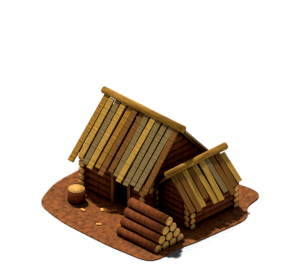
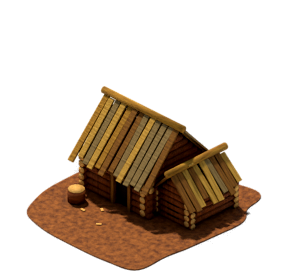
Settlers 4 construction: diggers clear every site, staged buildings, real goods piles, placement hints
Sim: every site except mines is cleared by a digger first (clearStrokes
per footprint tile, after levelling a sloped one); carriers bring the
materials meanwhile and builders start on cleared sites. Players start
with two diggers; carriers become extra diggers only for sloped sites,
so clearing does not eat the foresters' shovels. SAVE_VERSION 15.

Render: while a building is chosen, dots mark every spot in view where
it fits (green level, yellow needs a digger). The door flag goes up only
once a building is in use. With ?art=3d the woodcutter is drawn in its
construction stages (stakes, timber frame, lower walls, walls and half
the roof) rendered from one tagged Blender model, the log stack is gone
from the model, and goods at doors are pre-rendered piles of exactly as
many logs, planks or stones as lie there.

The AI gold test moves to seed 21: with clearing, seed 11's AI runs out
of stone before reaching gold (a known AI weakness, in the roadmap).

Changed region(s): [[0.09, 0.6571, 0.87, 0.9714], [0.18, 0.6, 0.27, 0.6571], [0.15, 0.6571, 0.18, 0.6857]]

diff --git a/src/render/renderer.ts b/src/render/renderer.ts
@@ -29,6 +29,8 @@ import {
 import { Effects } from './effects';
 import { BODY_STAND, BODY_WORK, CARRY_AT } from './settlerArt';
 import { depthOf, HALF_H, HALF_W, toScreen, toTile } from './iso';
+import { ART3D_STAGES, PILE_MAX } from './art3d';
+import { needsLevelling } from '../sim/digging';
 import { BANNERS, EDGE_DIRS, GROUND_PRIORITY, groundVariants, PLAYER_COLORS, type GroundKind } from './sprites';
 
 const TERRAIN_KIND: Record<Terrain, GroundKind> = {
@@ -180,6 +182,10 @@ export class GameRenderer {
   /** Arrows in flight (`World.shots`), redrawn every frame above everything standing on the ground. */
   private readonly shots = new Graphics();
   private readonly ghostLayer = new Container();
+  /** Placement hints: a dot on every spot in view where the chosen building fits. */
+  private readonly hints = new Graphics();
+  private hintKey = '';
+  private hintAt = 0;
   private readonly ghostSprite: Sprite;
   /**
    * Fog of war for the local player, above the objects: per chunk a Graphics with black diamonds
@@ -239,7 +245,7 @@ export class GameRenderer {
     /** Draw the fog of war (`?fog=off` disables it for debugging). */
     private readonly fogOn = true,
   ) {
-    this.world.addChild(this.ground, this.territory, this.marks, this.objects, this.shots, this.fog, this.ghostLayer);
+    this.world.addChild(this.ground, this.territory, this.marks, this.hints, this.objects, this.shots, this.fog, this.ghostLayer);
     this.settlerTex = atlas.settlerTextures();
     this.carrier3d = atlas.carrier3d();
     for (const r of RESOURCES) this.wareTex[r] = atlas.get(`ware:${r}`);
@@ -555,6 +561,7 @@ export class GameRenderer {
     selected: number | null,
     hover: { x: number; y: number } | null,
     area: Area | null = null,
+    placing: BuildingType | null = null,
   ) {
     this.view = view;
     this.nowMs = timeMs;
@@ -570,6 +577,50 @@ export class GameRenderer {
     this.syncFog(timeMs);
     this.drawShots(alpha);
     this.drawMarks(ghost, selected, hover, area);
+    this.drawHints(placing, timeMs);
+  }
+
+  /**
+   * While a building is being placed, marks every spot in view where it fits, at the centre of the
+   * would-be footprint (as in Settlers 4): green on level ground, yellow where a digger must level
+   * it first. Recomputed when the view, the type, territory or buildings change, and every 600 ms
+   * (trees grow, settlers move); only tiles the player owns are tested, so the cost follows the
+   * visible territory.
+   */
+  private drawHints(type: BuildingType | null, timeMs: number): void {
+    if (!type) {
+      if (this.hintKey) {
+        this.hints.clear();
+        this.hintKey = '';
+      }
+      return;
+    }
+    const v = this.view;
+    const key = `${type}|${Math.round(v.x / 64)},${Math.round(v.y / 64)},${Math.round(v.w / 64)}|${this.sim.territoryVersion}|${this.sim.buildingsVersion}`;
+    if (key === this.hintKey && timeMs - this.hintAt < 600) return;
+    this.hintKey = key;
+    this.hintAt = timeMs;
+    const g = this.hints;
+    g.clear();
+    const { map } = this.sim;
+    const def = BUILDINGS[type];
+    const corners = [toTile(v.x, v.y), toTile(v.x + v.w, v.y), toTile(v.x, v.y + v.h), toTile(v.x + v.w, v.y + v.h)];
+    const x0 = Math.max(0, Math.floor(Math.min(...corners.map((c) => c.x))) - 2);
+    const x1 = Math.min(map.w - 1, Math.ceil(Math.max(...corners.map((c) => c.x))) + 2);
+    const y0 = Math.max(0, Math.floor(Math.min(...corners.map((c) => c.y))) - 2);
+    const y1 = Math.min(map.h - 1, Math.ceil(Math.max(...corners.map((c) => c.y))) + 2);
+    for (let y = y0; y <= y1; y++) {
+      for (let x = x0; x <= x1; x++) {
+        if (map.owner[map.idx(x, y)] !== LOCAL_PLAYER || !this.sim.canPlace(type, x, y)) continue;
+        const cx = x + (def.w - 1) / 2;
+        const cy = y + (def.h - 1) / 2;
+        const p = this.surface(cx, cy);
+        if (p.x < v.x - 32 || p.x > v.x + v.w + 32 || p.y < v.y - 32 || p.y > v.y + v.h + 32) continue;
+        const flat = def.terrain === 'mountain' || !needsLevelling(map, type, x, y);
+        g.ellipse(p.x, p.y, flat ? 6 : 4.5, flat ? 3.2 : 2.4).fill({ color: flat ? 0x4fd84a : 0xe8cf3a, alpha: 0.9 });
+        g.ellipse(p.x, p.y, flat ? 6 : 4.5, flat ? 3.2 : 2.4).stroke({ width: 1, color: 0x10240c, alpha: 0.7 });
+      }
+    }
   }
 
   /** Whether the local player has seen the tile (always true with the fog off). */
@@ -909,9 +960,18 @@ export class GameRenderer {
         if (v.banner) v.banner.texture = this.atlas.get(`flag:${b.owner}`);
       }
       if (v.banner) v.banner.visible = b.done;
+      v.flag.visible = this.occupied(b);
       const progress = this.sim.buildProgress(b);
-      v.site.visible = !b.done;
-      if (b.done) {
+      const staged = this.atlas.has(`stage:${b.type}:0`);
+      v.site.visible = !b.done && !staged;
+      if (!b.done && staged) {
+        // Pre-rendered construction stages: stakes while the diggers clear the site, then the timber
+        // frame, the lower walls and the walls with half the roof as the builders work.
+        const stage = !b.levelled ? 0 : Math.min(ART3D_STAGES - 1, 1 + Math.floor(progress * (ART3D_STAGES - 1)));
+        v.main.texture = this.atlas.get(`stage:${b.type}:${stage}`);
+        v.main.anchor.copyFrom(v.main.texture.defaultAnchor!);
+        v.main.visible = true;
+      } else if (b.done) {
         v.main.texture = this.atlas.get(`building:${b.type}`);
         v.main.anchor.copyFrom(v.main.texture.defaultAnchor!);
         v.main.visible = true;
@@ -924,6 +984,18 @@ export class GameRenderer {
       }
       this.syncPile(b, v);
     }
+  }
+
+  /**
+   * The door flag goes up once a building is in use: a workplace when its worker has moved in, a
+   * military building while garrisoned (the castle always), anything else once built.
+   */
+  private occupied(b: Building): boolean {
+    if (!b.done) return false;
+    const def = BUILDINGS[b.type];
+    if (def.worker) return b.workerId !== null;
+    if (def.garrison) return b.garrison.length > 0 || !!def.garrison.claimsWhenEmpty;
+    return true;
   }
 
   private createBuildingView(b: Building): BuildingView {
@@ -987,6 +1059,16 @@ export class GameRenderer {
     // Keep the flag (child 0), drop the old pile.
     while (v.front.children.length > 1) v.front.children[1].destroy();
     const stack = (res: Resource, count: number, ox: number) => {
+      if (count <= 0) return;
+      // A pre-rendered pile of exactly this many (`?art=3d`), else single wares stacked up.
+      const pile = `pile:${res}:${Math.min(count, PILE_MAX)}`;
+      if (this.atlas.has(pile)) {
+        const s = new Sprite(this.atlas.get(pile));
+        // Half a tile from the door towards the building: on the trodden earth beside the entrance.
+        s.position.set(ox + 12, -4);
+        v.front.addChild(s);
+        return;
+      }
       for (let i = 0; i < count; i++) {
         const s = new Sprite(this.atlas.get(`ware:${res}`));
         s.position.set(ox + (i % 2) * 7, 8 - Math.floor(i / 2) * 4);

diff --git a/src/sim/world.ts b/src/sim/world.ts
@@ -11,6 +11,7 @@ import {
   PROSPECT_TICKS,
   PROSPECT_TILES,
   START_BUILDERS,
+  START_DIGGERS,
   START_CARRIERS,
   START_SOLDIERS,
   START_PLANKS,
@@ -18,7 +19,7 @@ import {
   START_TOOLS,
   totalCost,
 } from './config';
-import { levelTarget, needsLevelling } from './digging';
+import { levelTarget, needsDigger, needsLevelling } from './digging';
 import { dispatch } from './logistics';
 import { createAi, updateAi, type AiState } from './ai';
 import {
@@ -167,6 +168,7 @@ export class World {
     recomputeTerritory(this);
     for (let i = 0; i < START_CARRIERS; i++) spawnSettler(this, 'carrier', castle);
     for (let i = 0; i < START_BUILDERS; i++) spawnSettler(this, 'builder', castle);
+    for (let i = 0; i < START_DIGGERS; i++) spawnSettler(this, 'digger', castle);
     for (let i = 0; i < START_SOLDIERS; i++) enterGarrison(this, castle, spawnSettler(this, 'soldier', castle));
     return player;
   }
@@ -411,9 +413,10 @@ export class World {
     const { door: from } = this.castleOf(player);
     if (!findPath(this.map, from.x, from.y, door.x, door.y)) return null;
     const b = addBuilding(this, type, x, y, player, false);
-    if (needsLevelling(this.map, type, x, y)) {
+    if (needsDigger(type)) {
+      // Diggers clear every site first (and flatten a sloped one); carriers bring materials meanwhile.
       b.levelled = false;
-      b.levelTo = levelTarget(this.map, b);
+      b.levelTo = needsLevelling(this.map, type, x, y) ? levelTarget(this.map, b) : -1;
     }
     return b;
   }

diff --git a/src/render/atlas.ts b/src/render/atlas.ts
@@ -22,7 +22,7 @@ import {
   type GroundKind,
 } from './sprites';
 import { DIRS, WALK_FRAMES, WORK_FRAMES } from './anim';
-import { ART3D_SPRITES, type Art3d } from './art3d';
+import { ART3D_PILES, ART3D_STAGED, ART3D_STAGES, ART3D_SPRITES, PILE_MAX, type Art3d } from './art3d';
 import { ACTION_IDS, ACTIONS, HAT_STYLES, styleOf, TOOLS, type ActionId, type HatStyle, type ToolShape } from './animConfig';
 import { paintFlash, paintGlint, paintGlow, paintPuff, paintSpark } from './fxArt';
 import {
@@ -278,6 +278,10 @@ export class SpriteAtlas {
     };
   }
 
+  has(name: string): boolean {
+    return this.textures.has(name);
+  }
+
   get(name: string): Texture {
     const t = this.textures.get(name);
     if (!t) throw new Error(`unknown sprite ${name}`);
@@ -375,6 +379,12 @@ function addArt3d(a: AtlasBuilder, art: Art3d): void {
     a.add(key, s.w, s.h, s.ax, s.ay, (ctx) => ctx.drawImage(img, 0, 0, s.w, s.h));
   };
   one('building:woodcutter', 'woodcutter');
+  for (const type of ART3D_STAGED) {
+    for (let k = 0; k < ART3D_STAGES; k++) one(`stage:${type}:${k}`, `${type}-s${k}`);
+  }
+  for (const res of ART3D_PILES) {
+    for (let n = 1; n <= PILE_MAX; n++) one(`pile:${res}:${n}`, `pile-${res}-${n}`);
+  }
   one('tree:0', 'tree');
   for (let v = 1; v < 4; v++) a.alias(`tree:${v}`, 'tree:0');
   for (let v = 0; v < 3; v++) one(`deposit:${v}`, `deposit${v}`);

diff --git a/src/render/art3d.ts b/src/render/art3d.ts
@@ -36,9 +36,24 @@ export interface Art3d {
   ground: GroundMeta;
 }
 
+/** Construction stages rendered per building (`STAGES` in build.py): 0 stakes … 3 roof half on. */
+export const ART3D_STAGES = 4;
+/** Buildings rendered with their construction stages. */
+export const ART3D_STAGED = ['woodcutter'];
+/** Goods piles at a door: one sprite per count up to `PILE_MAX` (`build_pile` in build.py). */
+export const ART3D_PILES = ['log', 'plank', 'stone'];
+export const PILE_MAX = 8;
+const PILE = { w: 44, h: 34, ax: 22, ay: 24 };
+
+const WOODCUTTER = { w: 150, h: 140, ax: 75, ay: 100 };
+
 /** Logical size and anchor of the single-image sprites, matching `build.py`'s `SINGLE` table. */
 export const ART3D_SPRITES: Record<string, { w: number; h: number; ax: number; ay: number }> = {
-  woodcutter: { w: 150, h: 140, ax: 75, ay: 100 },
+  woodcutter: WOODCUTTER,
+  ...Object.fromEntries(Array.from({ length: ART3D_STAGES }, (_, k) => [`woodcutter-s${k}`, WOODCUTTER])),
+  ...Object.fromEntries(
+    ART3D_PILES.flatMap((res) => Array.from({ length: PILE_MAX }, (_, k) => [`pile-${res}-${k + 1}`, PILE])),
+  ),
   tree: { w: 84, h: 100, ax: 34, ay: 80 },
   deposit0: { w: 56, h: 44, ax: 28, ay: 34 },
   deposit1: { w: 56, h: 44, ax: 28, ay: 34 },

diff --git a/src/sim/digging.ts b/src/sim/digging.ts
@@ -1,4 +1,4 @@
-import { BUILD_MAX_SLOPE, BUILDINGS } from './config';
+import { BUILD_MAX_SLOPE, BUILDINGS, CLEAR_STROKES_PER_TILE } from './config';
 import type { GameMap } from './map';
 import type { Building, BuildingType } from './types';
 
@@ -14,6 +14,16 @@ function siteCorners(x: number, y: number, w: number, h: number): [number, numbe
 export function needsLevelling(map: GameMap, type: BuildingType, x: number, y: number): boolean {
   const def = BUILDINGS[type];
   return def.terrain !== 'mountain' && map.heightRange(x, y, x + def.w - 1, y + def.h) > BUILD_MAX_SLOPE;
+}
+
+/** Whether a site of this type is cleared by a digger before building (all but mines). */
+export function needsDigger(type: BuildingType): boolean {
+  return BUILDINGS[type].terrain !== 'mountain';
+}
+
+/** Spade strokes it takes to clear a site, levelling aside. */
+export function clearStrokes(b: Pick<Building, 'w' | 'h'>): number {
+  return b.w * b.h * CLEAR_STROKES_PER_TILE;
 }
 
 /** The height a site is flattened to: the rounded mean of its corners. */

diff --git a/src/sim/types.ts b/src/sim/types.ts
@@ -147,11 +147,16 @@ export interface Building {
   garrisonInbound: number;
   /** Of `garrisonInbound`, how many are archers (so recruiting fills archer slots only once). */
   garrisonArchersInbound: number;
-  /** Construction site on sloped ground: false until a digger has flattened it; builders wait. */
+  /**
+   * Construction site: false until a digger has cleared it (and flattened it, on sloped ground);
+   * builders wait, carriers already bring materials. Mines need no digger.
+   */
   levelled: boolean;
   diggerId: number | null;
-  /** Height the digger flattens the site's corners to (set when the site is laid out). */
+  /** Height the digger flattens the site's corners to (set when the site is laid out); −1: flat already. */
   levelTo: number;
+  /** Spade strokes spent clearing the site; it is cleared at `clearStrokes(b)`. */
+  dug: number;
 }
 
 export type Task =

diff --git a/src/sim/settlers.ts b/src/sim/settlers.ts
@@ -14,7 +14,7 @@ import {
   UNREACHABLE_TICKS,
   TERRAIN,
 } from './config';
-import { levelStep } from './digging';
+import { clearStrokes, levelStep } from './digging';
 import { assaultTick, joinTick, releaseJoin, soldierIdle } from './military';
 import { canPlant, findGatherTarget, findPlotFor, harvest, isGatherTarget, plant, type Target } from './nature';
 import { findPath } from './pathfinding';
@@ -153,7 +153,9 @@ export function updateSettler(w: World, s: Settler): void {
       s.working = true;
       if (++task.n < DIG_EVERY) return;
       task.n = 0;
-      if (levelStep(w.map, b)) {
+      // Flatten a sloped site first, then clear it.
+      if (b.levelTo >= 0 && !levelStep(w.map, b)) return;
+      if (++b.dug >= clearStrokes(b)) {
         b.levelled = true;
         b.diggerId = null;
         s.tasks.shift();

diff --git a/src/sim/logistics.ts b/src/sim/logistics.ts
@@ -84,9 +84,12 @@ function dispatchFor(w: World, owner: PlayerId): void {
     ];
   }
 
-  // Sloped sites waiting for levelling: carriers pick up shovels and become diggers.
+  // Sloped sites waiting for levelling: carriers pick up shovels and become diggers. Plain clearing
+  // is left to the diggers there are (it is quick), so shovels stay for foresters.
   const diggerTool = PROFESSIONS.digger.tool!;
-  const sitesToDig = own.filter((b) => !b.done && !b.levelled && b.diggerId === null && isReachable(w, b)).length;
+  const sitesToDig = own.filter(
+    (b) => !b.done && !b.levelled && b.levelTo >= 0 && b.diggerId === null && isReachable(w, b),
+  ).length;
   const comingDiggers = w.settlers.filter(
     (s) =>
       s.owner === owner &&

diff --git a/src/sim/config.ts b/src/sim/config.ts
@@ -64,6 +64,10 @@ export const OUTPUT_SHARES: Partial<Record<Resource, number>> = { sword: 60, bow
 /** A barracks only takes a recruit while the player keeps at least this many idle carriers. */
 export const BARRACKS_MIN_IDLE = 2;
 export const START_BUILDERS = 3;
+/** Diggers at the start: every site is cleared by one before the builders start (as in Settlers 4). */
+export const START_DIGGERS = 2;
+/** Spade strokes (one per `DIG_EVERY` ticks) to clear one footprint tile, on top of any levelling. */
+export const CLEAR_STROKES_PER_TILE = 6;
 export const START_PLANKS = 20;
 export const START_STONE = 10;
 /** Tools in the castle at the start, enough for the first workplaces. */

diff --git a/tests/ai.test.ts b/tests/ai.test.ts
@@ -102,8 +102,9 @@ describe('fog of war', () => {
   });
 
   it('prospects for gold, mines and smelts it, and promotes its soldiers', { timeout: LONG }, () => {
-    // 64×64 maps have no gold; this 96×96 one has some on player 2's side.
-    const w = new World(11, { size: 96, players: 2, ai: [2] });
+    // 64×64 maps have no gold; this 96×96 one has some on player 2's side (and stone enough to get
+    // there: on many maps the AI still runs out of stone first, see the roadmap).
+    const w = new World(21, { size: 96, players: 2, ai: [2] });
     let ranked = 0;
     for (let i = 0; i < 30 * MINUTE && ranked === 0; i++) {
       w.step();

diff --git a/src/main.ts b/src/main.ts
@@ -100,7 +100,8 @@ async function main() {
     const view = camera.viewRect(app.screen.width, app.screen.height);
     audio.listen(camera.x, camera.y, view.w / 2, camera.zoom);
     audio.update();
-    renderer.sync(acc / TICK_MS, now, view, input.ghost(), state.selected, state.hover, input.area());
+    const placing = state.placing && state.placing !== 'geologist' ? state.placing : null;
+    renderer.sync(acc / TICK_MS, now, view, input.ghost(), state.selected, state.hover, input.area(), placing);
     hud.update(now);
     minimap.update(now, app.screen.width, app.screen.height);
   });

diff --git a/tests/tools.test.ts b/tests/tools.test.ts
@@ -77,7 +77,8 @@ describe('tools', () => {
       [-5, 4],
       [1, 6],
     ]) {
-      placeNear(w, 'house_small', c.x + dx, c.y + dy);
+      // Already cleared, so only the builder rule is under test (diggers clear sites first).
+      placeNear(w, 'house_small', c.x + dx, c.y + dy)!.levelled = true;
     }
     run(w, 200);
     expect(builders()).toBe(5);
